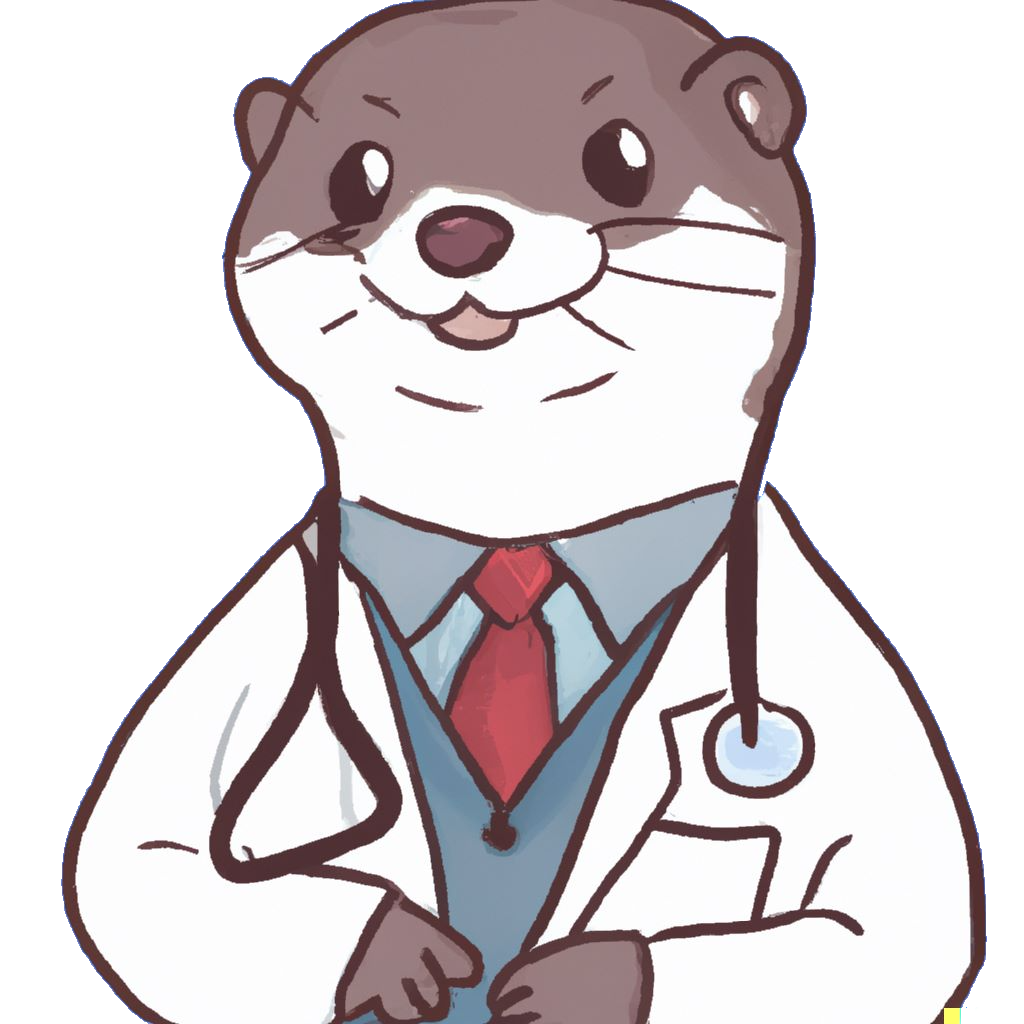
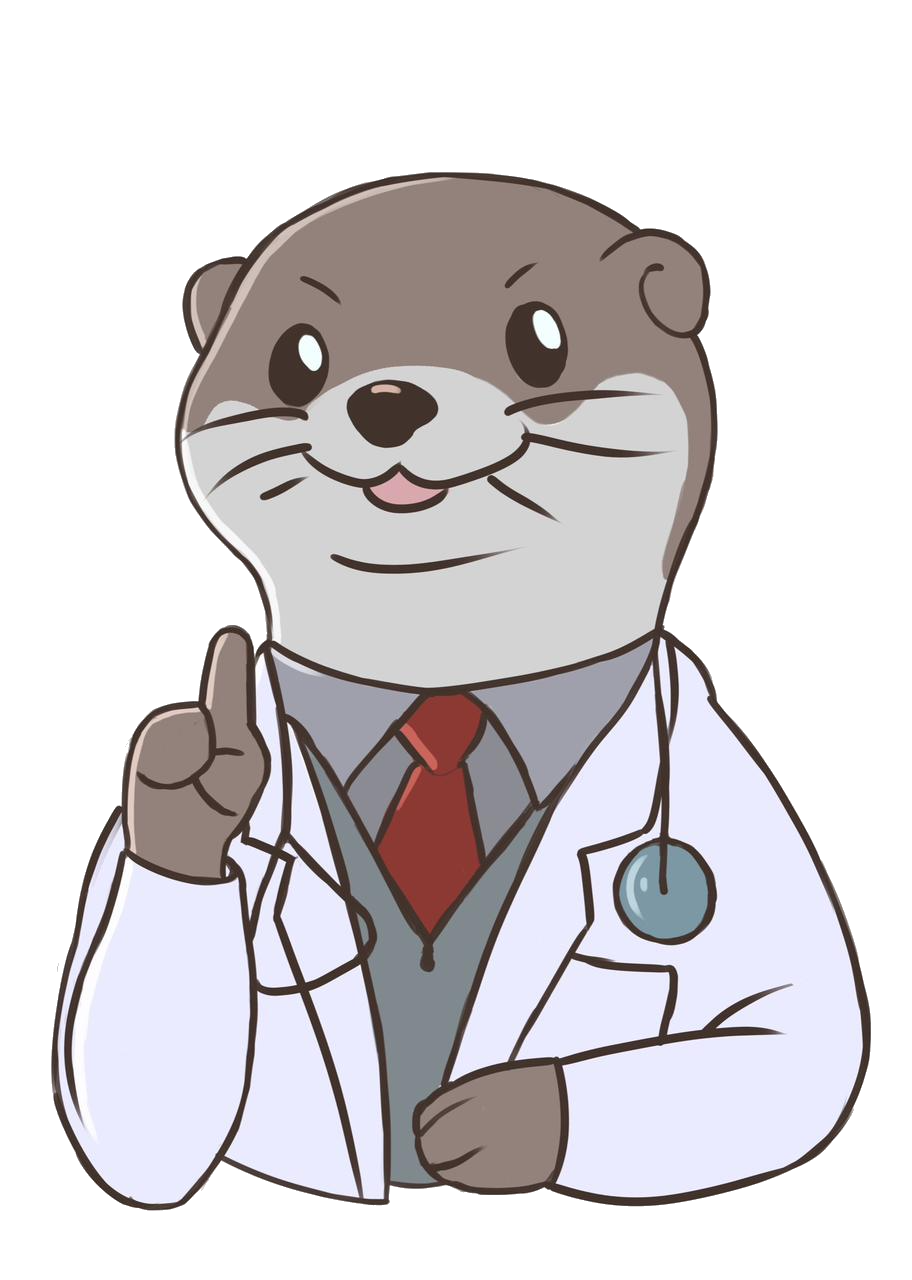
Nueva nutria y personalización

diff --git a/FrontEND/code-rolls/src/components/components-Nutri/Nutri.js b/FrontEND/code-rolls/src/components/components-Nutri/Nutri.js
@@ -1,10 +1,12 @@
 import React from 'react'
 import { Modal, Button, Container, Row, Col } from 'react-bootstrap'
-import { useRef, useState } from 'react';
-import nutria from '../images/nutri.png'
-
+import {BsInfoCircle} from 'react-icons/bs'
+import imagen0 from '../images/nutri0.png'
+import imagen1 from '../images/nutri.png'
+import imagen2 from '../images/nutriAzul.png'
 
 const Nutri = (props) => {
+
     const [isShow, invokeModal] = React.useState(false)
     const initModal = () => {
         return invokeModal(!false)
@@ -13,19 +15,29 @@ const Nutri = (props) => {
         return invokeModal(false)
     }
 
+    function seleccionarImagen(num){
+        if(num == 0){
+            return imagen0
+        }else if(num == 1){
+            return imagen1
+        }else{
+            return imagen2
+        }
+    }
+
     return(
         <>
-        <Button variant="success" onClick={initModal}>
-          Open Modal
+        <Button variant={props.variant} onClick={initModal}>
+        <BsInfoCircle />
         </Button>
         <div className='popup--container'>
             <Modal show={isShow}>
-            <Modal.Body className='transparent'>
-                <Container fluid className='transparent'>
+            <Modal.Body>
+                <Container fluid>
                     <Row>
                         <Col sm='4'>
-                            <div className='nutri--container'>
-                                <img className='nutri' src={nutria}/>
+                            <div className={props.class}>
+                                <img className='nutri' src={seleccionarImagen(props.imagen)}/>
                             </div>
                         </Col>
                         <Col sm='8'>

diff --git a/FrontEND/code-rolls/src/components/components-Nutri/NutriTour.js b/FrontEND/code-rolls/src/components/components-Nutri/NutriTour.js
@@ -1,0 +1,35 @@
+import React from 'react'
+import { Modal, Button, Container, Row, Col } from 'react-bootstrap'
+import imagen1 from '../images/nutri.png'
+import imagen2 from '../images/nutriAzul.png'
+
+const NutriTour = (props) => {
+
+    function seleccionarImagen(num){
+        if(num == 1){
+            return imagen1
+        }else{
+            return imagen2
+        }
+    }
+
+    return (
+        <Container fluid>
+            <Row>
+                <Col sm='4'>
+                    <div className='nutri--container'>
+                        <img className='nutri' src={seleccionarImagen(props.imagen)}/>
+                    </div>
+                </Col>
+                <Col sm='8'>
+                    <Modal.Header closeButton onClick={closeModal}>
+                        <Modal.Title>Nutri</Modal.Title>
+                    </Modal.Header>
+                    {props.descripcion}
+                </Col>
+            </Row>
+        </Container>
+    )
+}
+
+export default NutriTour;

diff --git a/FrontEND/code-rolls/src/App.css b/FrontEND/code-rolls/src/App.css
@@ -70,10 +70,16 @@
 }
 
 .nutri--container{
-  border: 2px solid black;
   overflow: hidden;
   justify-content: center;
   align-items: center;
+}
+
+.nutri--containerCircular{
+  overflow: hidden;
+  justify-content: center;
+  align-items: center;
+  border: 2px solid black;
   border-radius: 50%;
 }
 
@@ -126,4 +132,9 @@ button {
 .column {
   border-radius: 5px;
   padding: 10px;
+}
+
+.btn-flat{
+  background-color: transparent;
+  color: grey;
 }

diff --git a/FrontEND/code-rolls/src/components/components-Planes/Plan.js b/FrontEND/code-rolls/src/components/components-Planes/Plan.js
@@ -1,5 +1,6 @@
 import React from "react";
 import "bootstrap/dist/css/bootstrap.css";
+import Nutri from "../components-Nutri/Nutri";
 import { Card, Popover, Button } from "antd";
 import { useNavigate } from "react-router-dom";
 import { getColorsCard } from "./utils"

diff --git a/FrontEND/code-rolls/src/components/Pages/Usuario.js b/FrontEND/code-rolls/src/components/Pages/Usuario.js
@@ -7,7 +7,7 @@ const Usuario = () => {
 
   return (
     <div>
-        <Nutri descripcion = {mensaje}/>
+        <Nutri descripcion = {mensaje} imagen = {0} variant="flat" class="nutri--containerCircular"/>
     </div>
   )
 }
